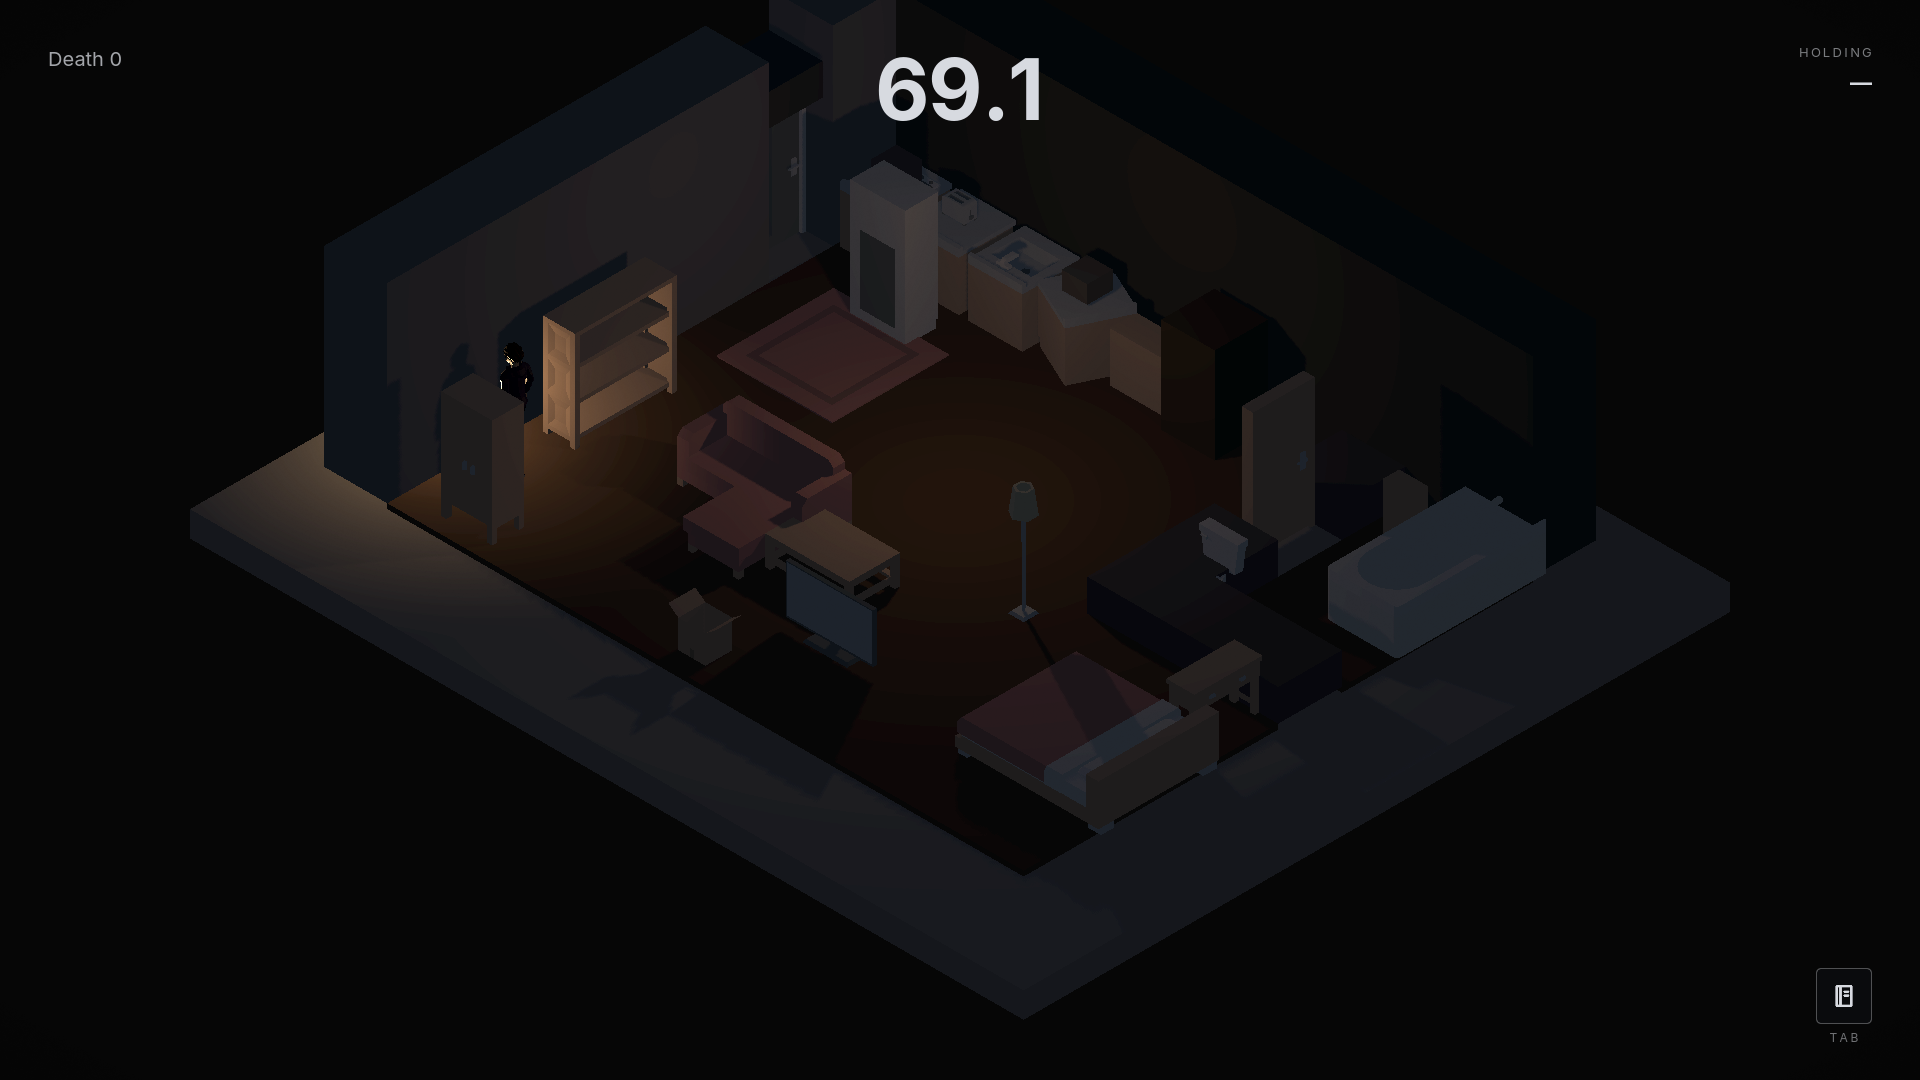
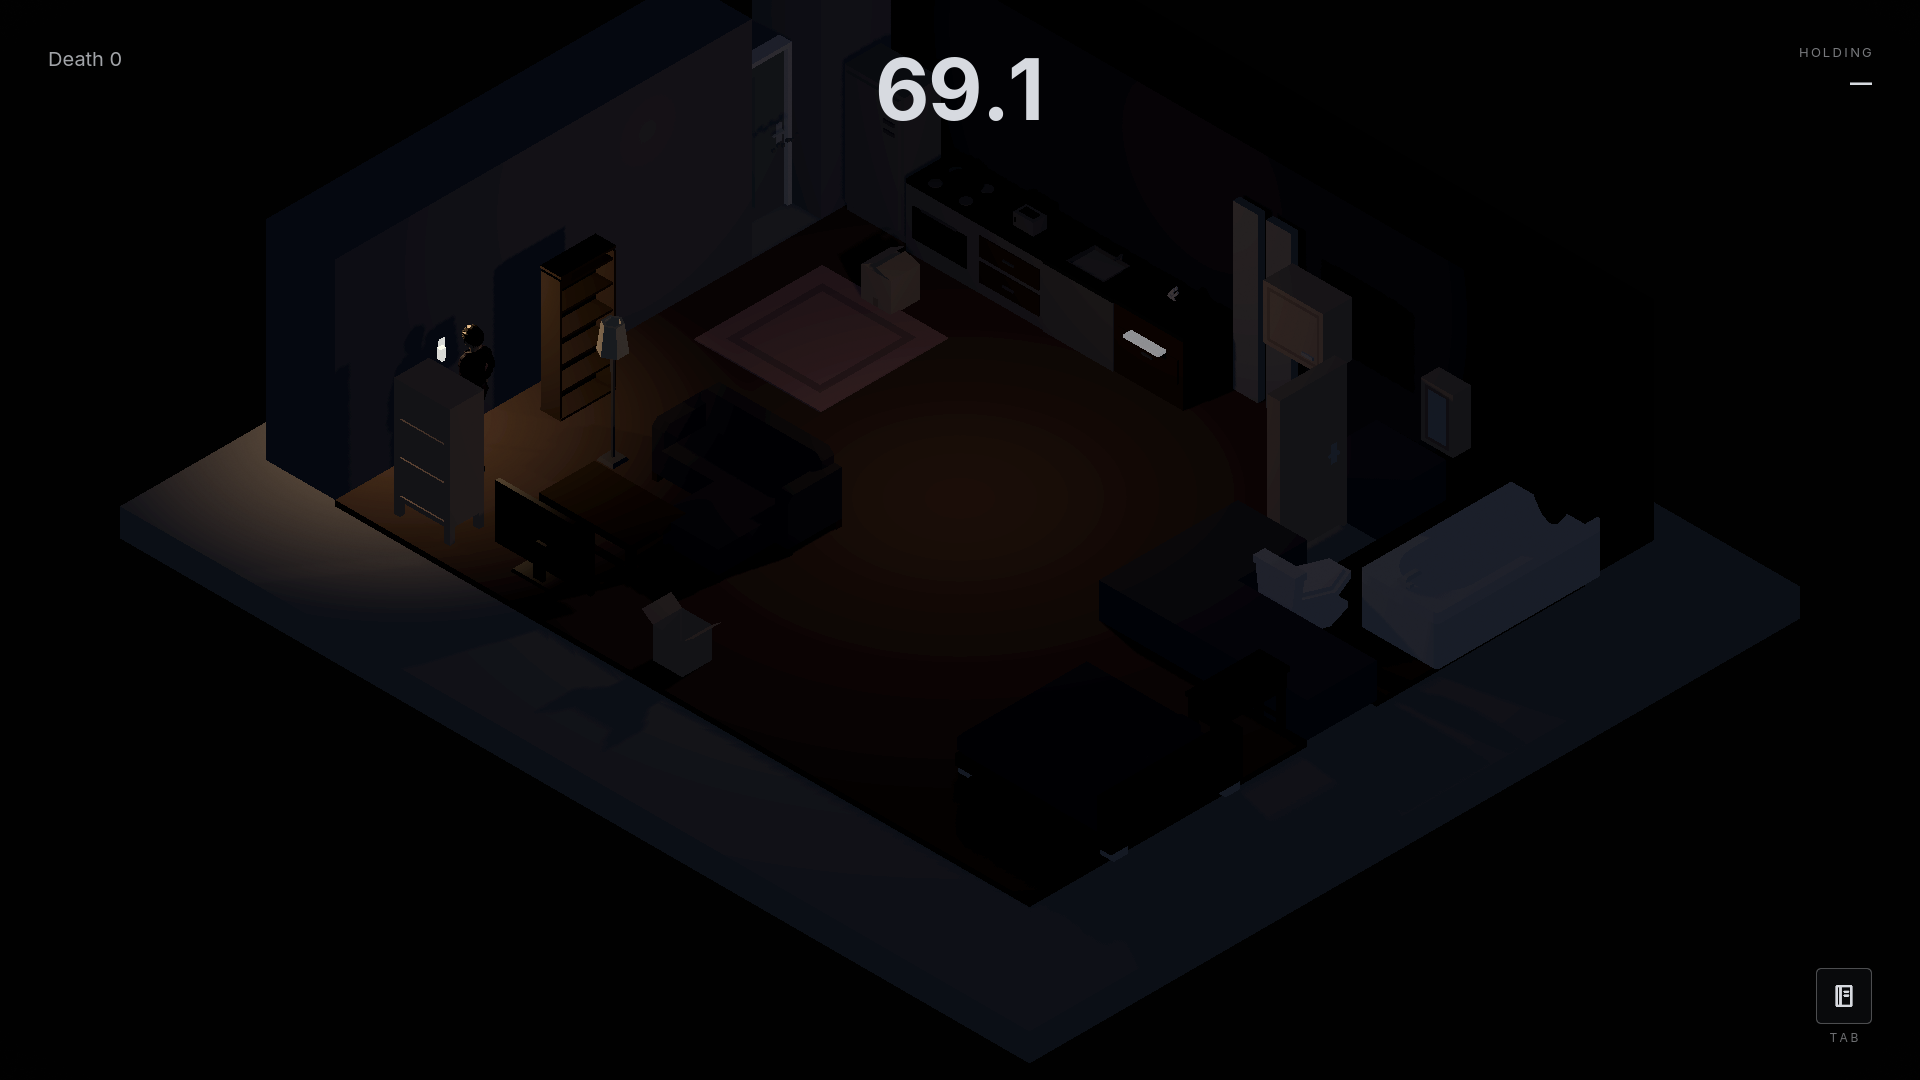
feat: regenerate the acceptance shot set for First Light sign-off
Seven shots at 1920x1080 plus the 4:3 and 21:9 recaptures. Intents, for
reproduction: dark = walk (1,7), toggle light_switch; flood = walk (3,2),
toggle sink, t=28; fire = open nightstand, grab lighter, walk (6,2),
use-held-on curtains, t=11; tipped = walk (1,7), push tip_first, push
tip_second, t=7; death = no input, --speed 10, t=106.5; secured = walk
(1,2), toggle front_door lock, toggle door_chain chain, t=6. Aspects:
--resolution 1024x768 / 1560x720 with the window self-size disabled for
the shot only (reverted; the shipped game opens 16:9).

Changed region(s): [[0.0625, 0.0306, 0.875, 0.8556], [0.5, 0.4583, 0.5625, 0.4889], [0.5312, 0.55, 0.5625, 0.5806]]

diff --git a/docs/VISUAL-DIRECTIONS.md b/docs/VISUAL-DIRECTIONS.md
@@ -2,7 +2,7 @@
 
 **Decision document, 3 Nov 2026.** Three committed directions for leveling up DÉJÀ MORT's look, each specified to the point of approval. Nothing in this document is implemented; no file outside it has changed. Bob picks one (or an order); a direction is approved only against a style frame before any code moves, and against the acceptance shots after.
 
-**Status, 3 Nov 2026: Direction A — First Light is chosen.** Bob approved the feel against the style frame generated from A's §8 prompt (v2, kept at `docs/reference/first-light-frame-v2.webp`). No code or content has moved yet; the next gate is the build plan, and the final gate remains the acceptance-shot set after the build.
+**Status, 3 Nov 2026: Direction A — First Light is chosen and built.** Bob approved the feel against the style frame generated from A's §8 prompt (v2, kept at `docs/reference/first-light-frame-v2.webp`). The build is on branch `first-light` — the data pass, the studio `counter*`/`toaster`/`bookshelf`/`bubble_token` models, and the dust puff. One scope ruling: the build also fixed a latent M4 defect (**hazard particles were invisible — CPUParticles3D renders nothing without a mesh**), so water, fire, shock and gas particles finally render too. The acceptance shot set is regenerated and **awaiting Bob's sign-off**.
 
 Derived from the repo, the studio's own peers (`docs/06-art-and-audio-requirements.md:7` — Hitman GO, Monument Valley, Lara Croft GO; "keep the bones, change the mood") and `docs/reference/style-target.png`. Bob has no references of his own, so every proposal below is grounded in a value or a rule that already exists.
 
